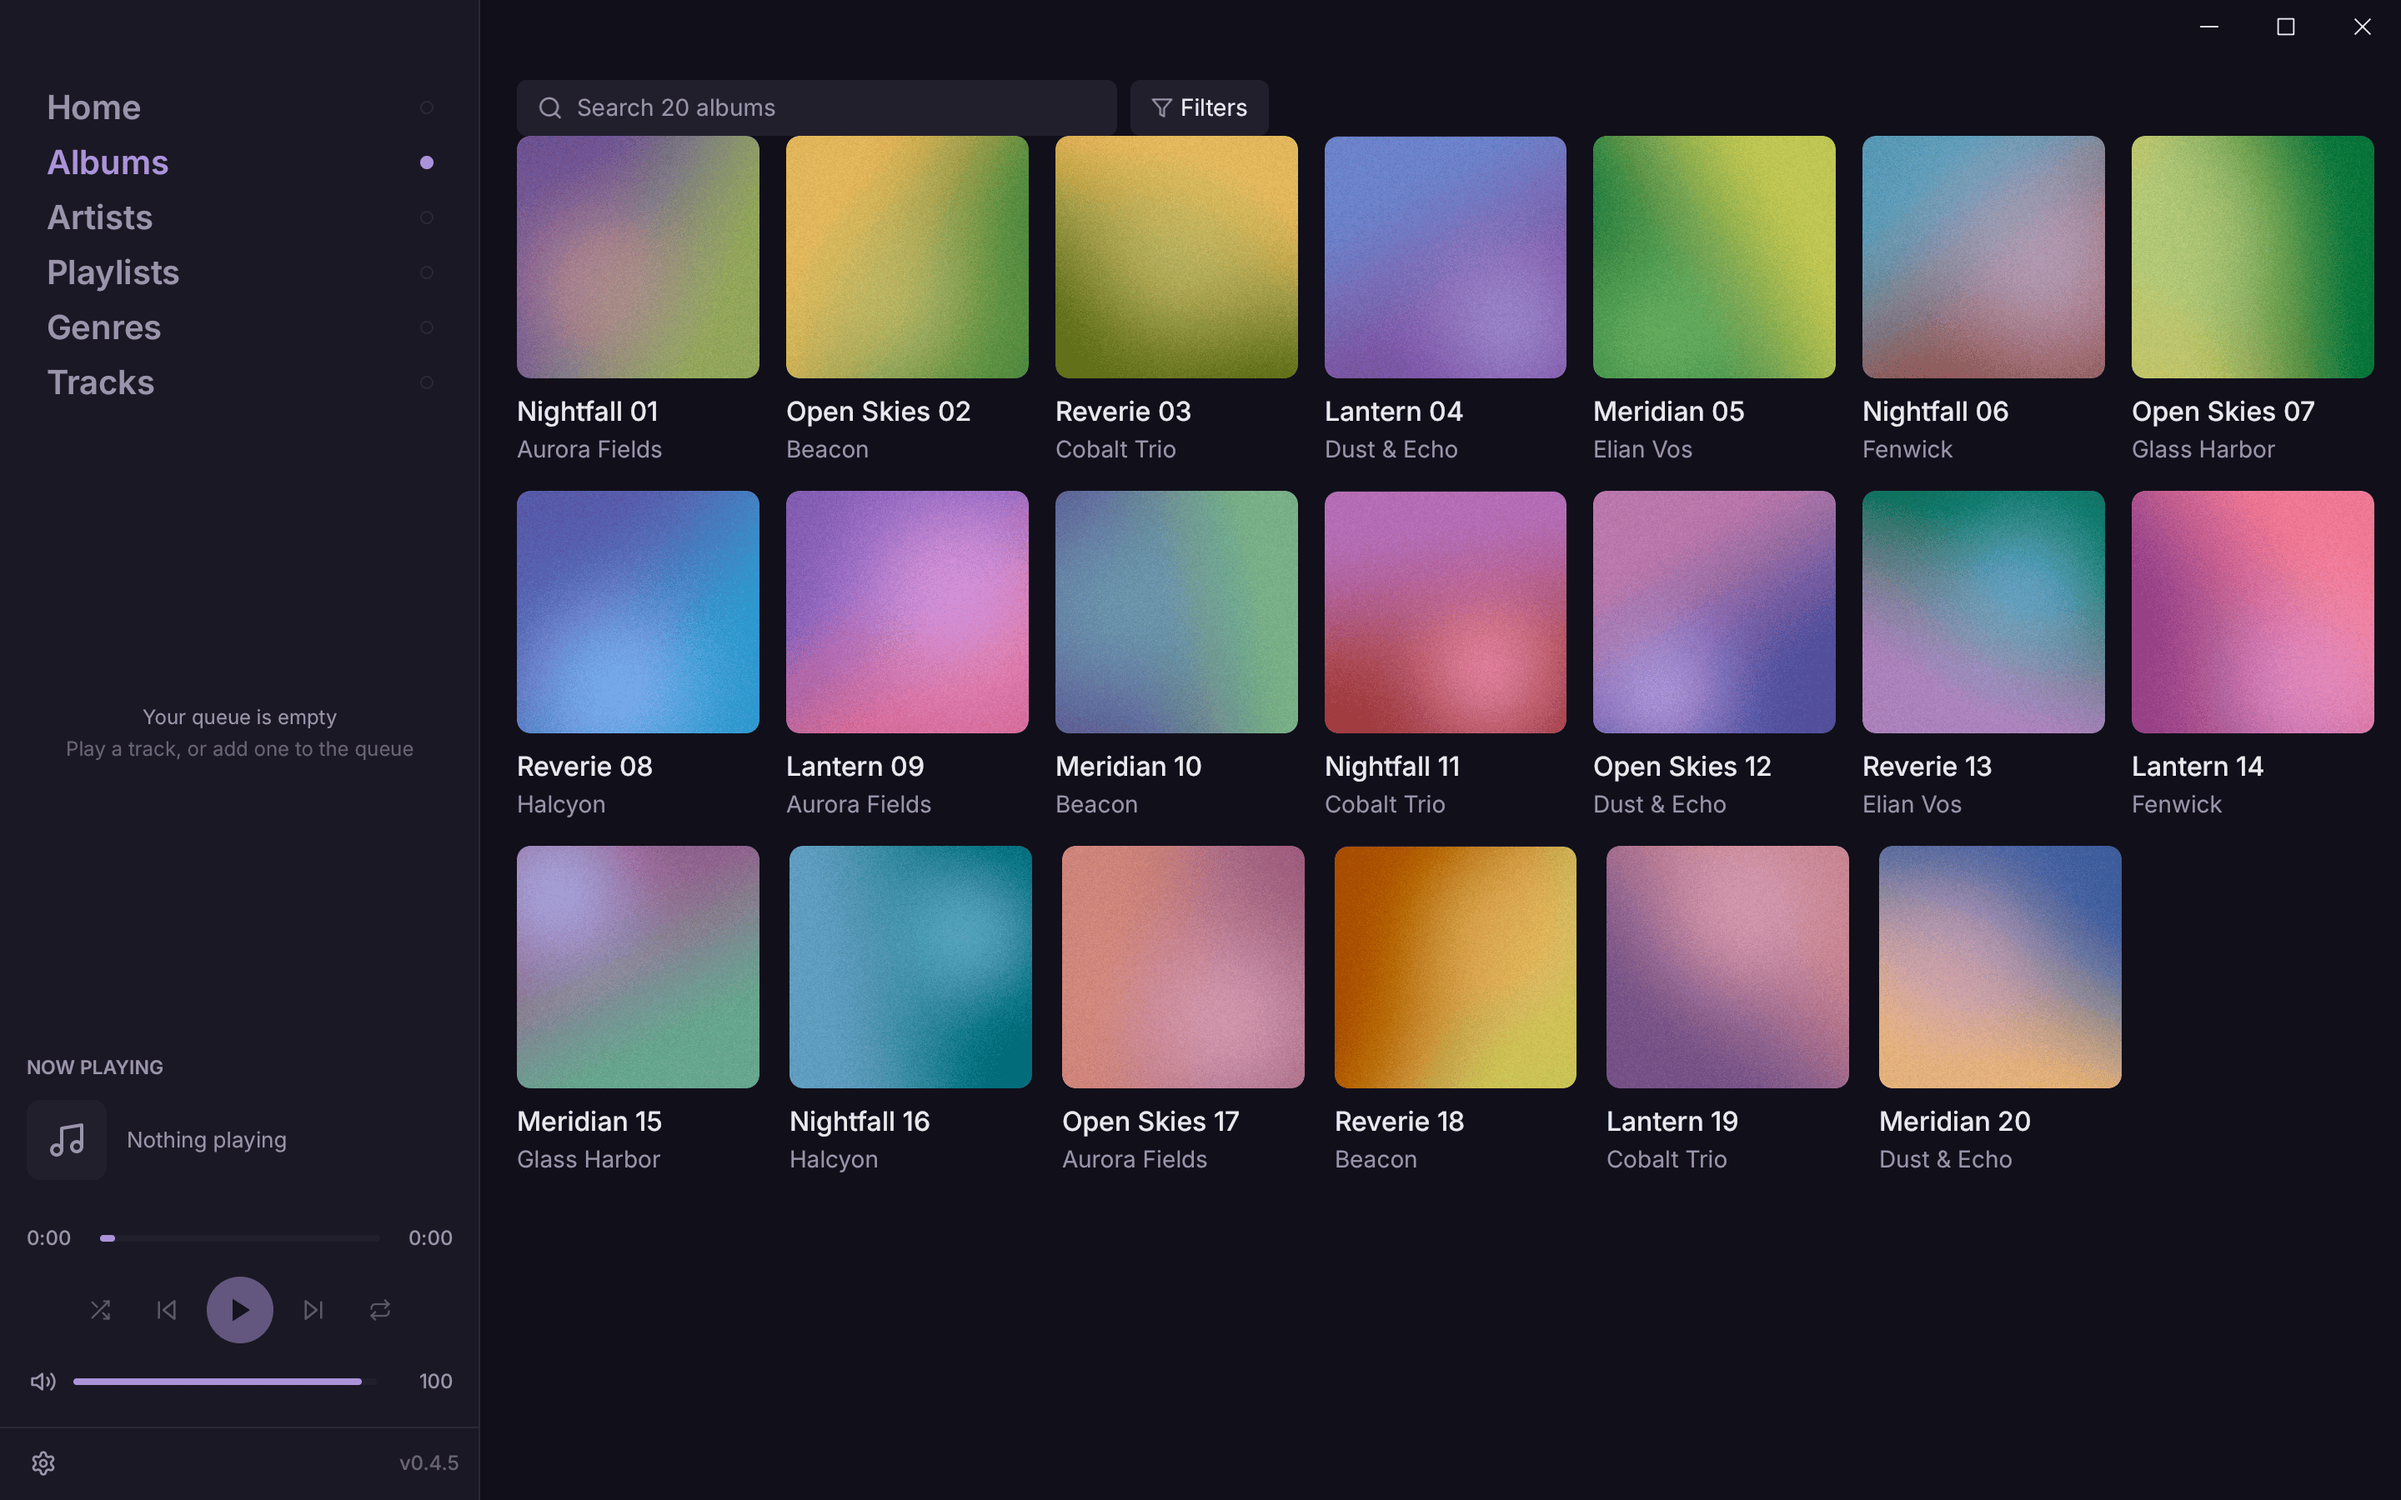
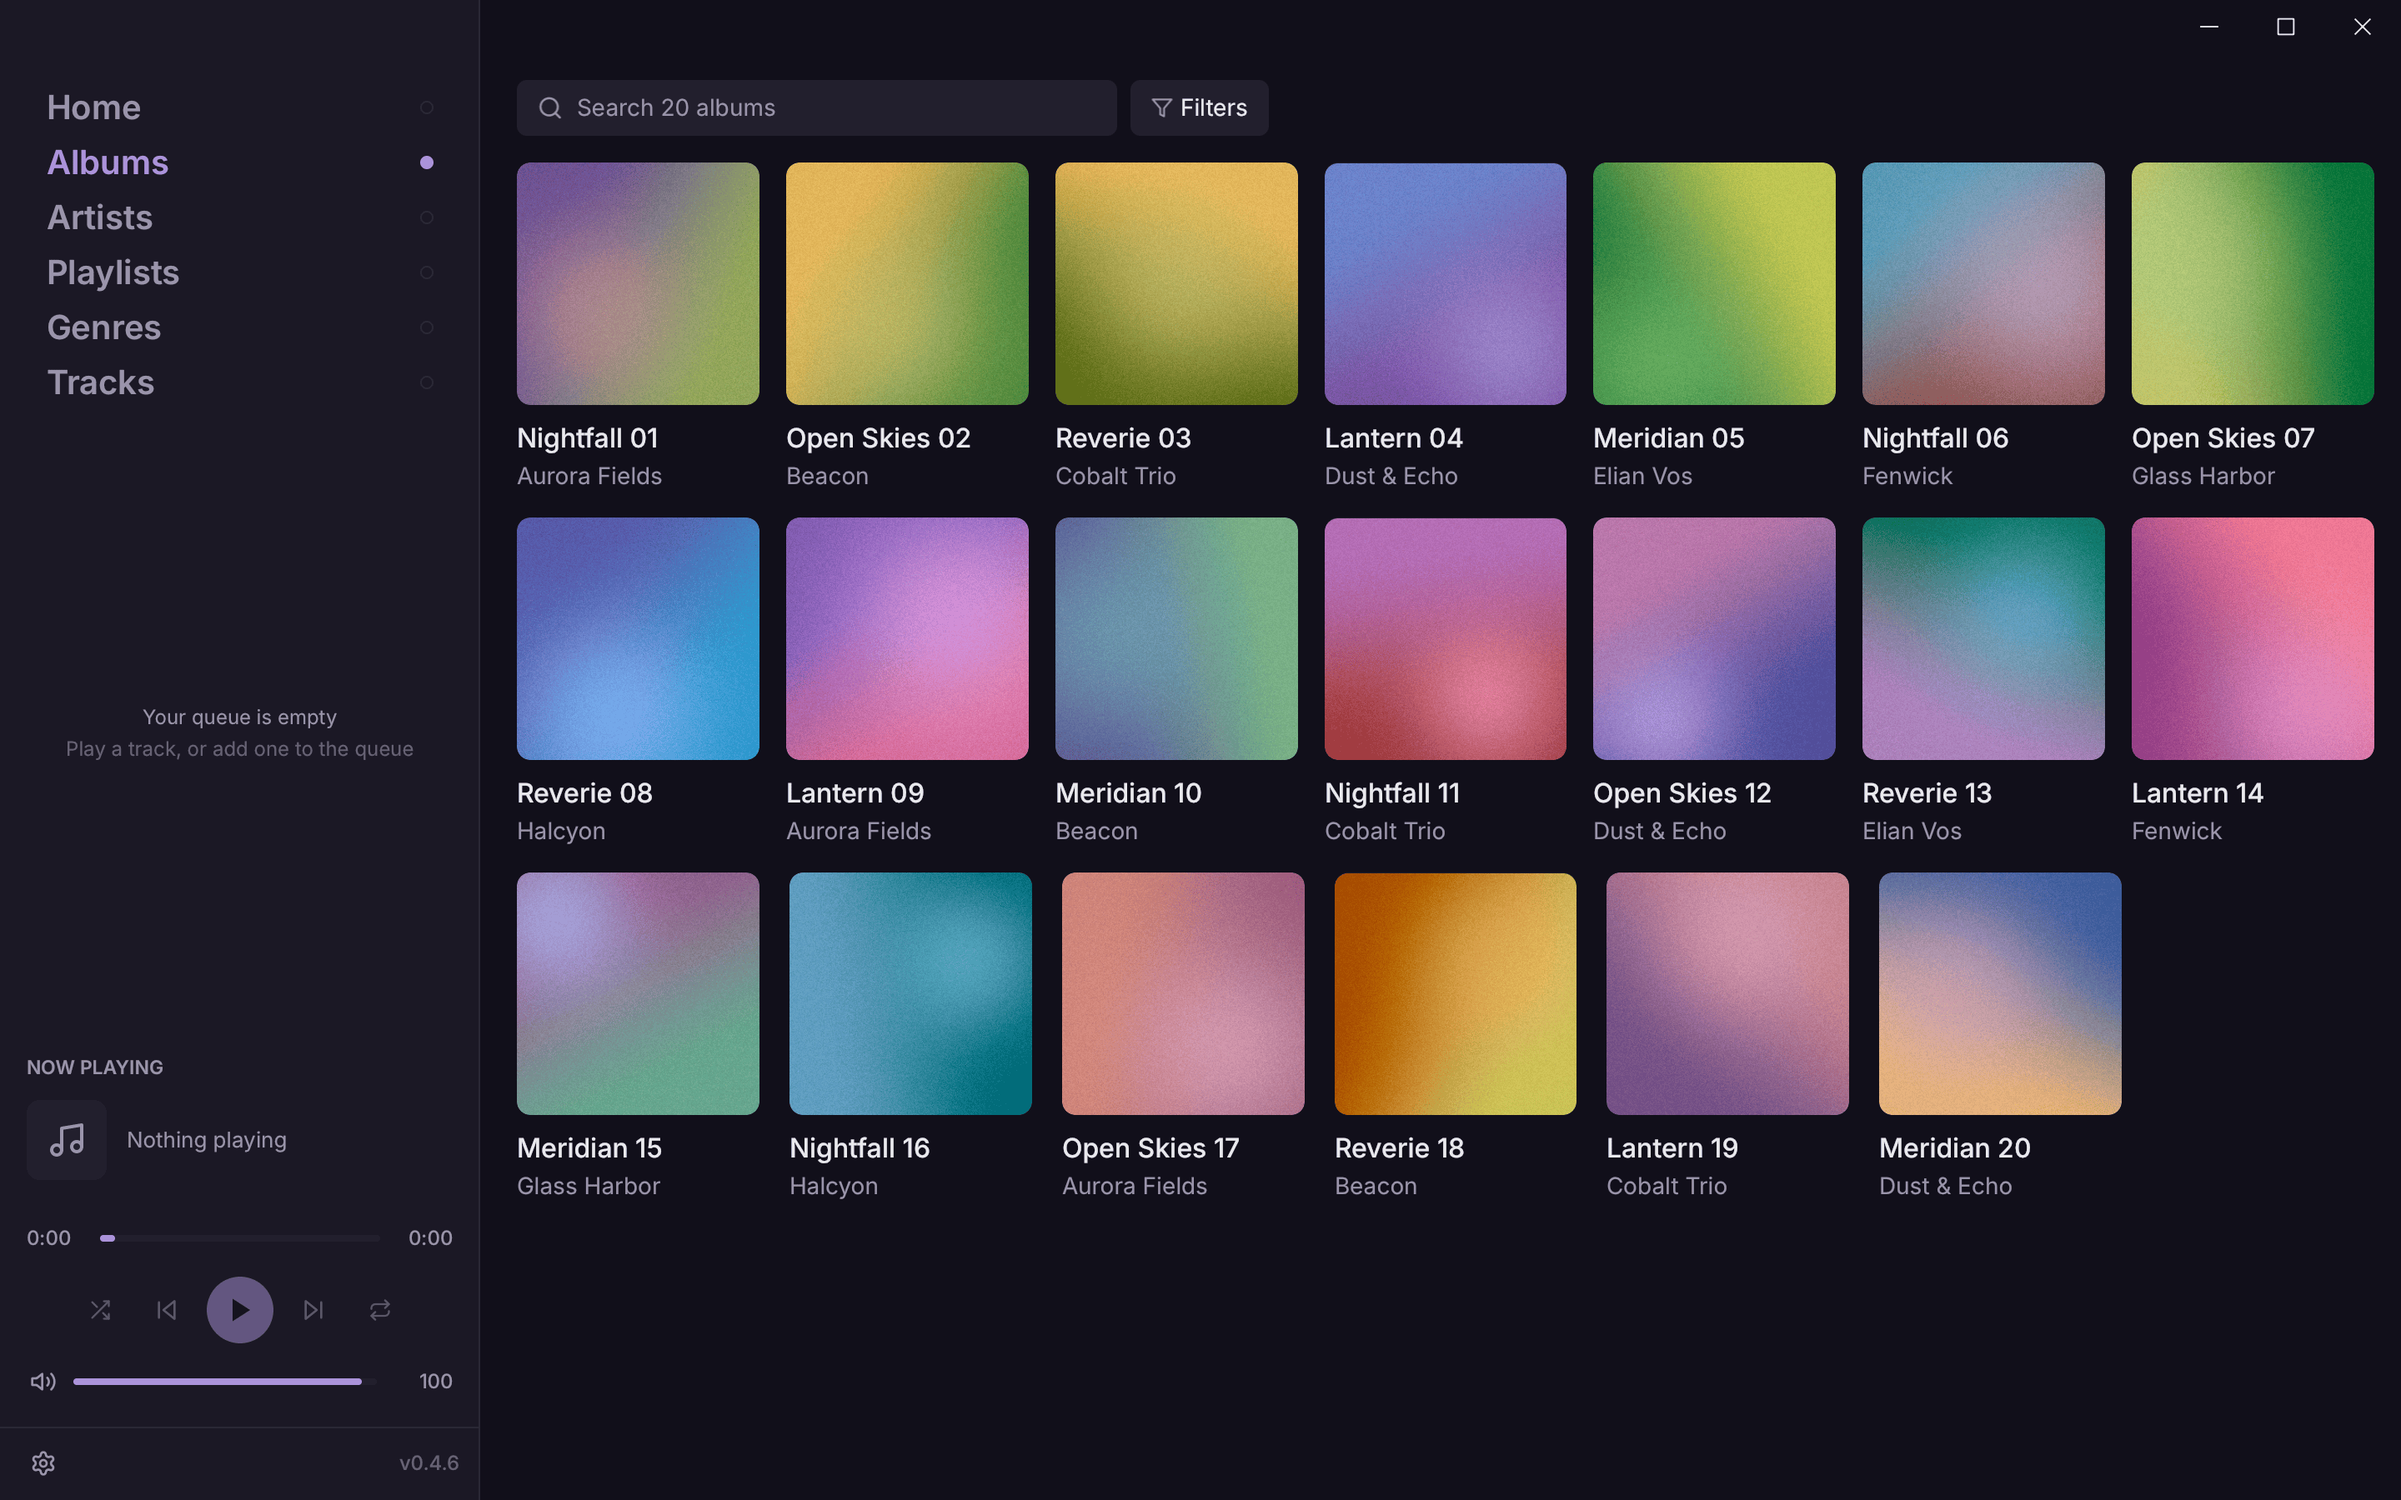
fix(ui): give the browse pages a gap between the search bar and the content
The shared top bar had top padding and no bottom padding, on the stated
assumption that "the grid's own top padding provides the gap below". The grid
has no top padding: its rows carry only a bottom gutter, and the Tracks list
starts flush. So on all five browse pages (Albums, Artists, Genres, Tracks,
Playlists) the first row sat directly against the search field.

Adds the matching bottom padding, which is also what the README screenshot
shows, so that is re-rendered.

The README itself is cut to roughly half: the four reasons, one paragraph of
features, install, self-hosting, build, and the doc index.

Changed region(s): [[0.2188, 0.0933, 1.0, 0.8089], [0.2188, 0.6222, 0.2812, 0.6844], [0.5938, 0.1556, 0.625, 0.1867]]

diff --git a/app/src/views/library.rs b/app/src/views/library.rs
@@ -101,11 +101,13 @@ const TRACK_ROW_EST_H: f32 = 44.0;
 pub(crate) fn page_search_bar(page: &str, search: El, trailing: Option<El>) -> El {
     let mut bar = row()
         .key(format!("{page}-search-bar"))
-        // Give the top bar the old app's `p-4`-style top breathing room instead of
-        // sitting cramped against the top of the pane; the grid's own top padding
-        // provides the gap below, so no bottom padding here.
+        // The old app's `p-4`-style breathing room on all four sides. The bottom
+        // padding matters as much as the top: what follows is a grid whose rows
+        // carry only a BOTTOM gutter, or a list whose rows start flush, so
+        // without it the first row sits against the search field.
         .px(space::PANE)
         .pt(space::PANE)
+        .pb(space::PANE)
         .gap(space::SM)
         .center_y()
         .child(search.grow(1.0).max_w(SEARCH_MAX_W));

diff --git a/README.md b/README.md
@@ -6,63 +6,27 @@ A desktop music player for people who still keep their own files.
 
 ![The Albums view](docs/screenshots/albums-dark.png)
 
-## Why Soul Player
+## Why
 
-**Your library stays yours.** No account, no sign-in, no cloud. Your files never
-leave your machine, and nothing about what you listen to is collected or sent
-anywhere. The only thing the app talks to on its own is the update check, and you
-can switch that off.
+- **Your library stays yours.** No account, no cloud, no tracking. The only thing
+  the app contacts on its own is the update check, and you can switch that off.
+- **It plays the file, not an approximation.** Gapless, no hidden resampling, and
+  exclusive access to the sound card where the platform allows it.
+- **Native, not a browser in a window.** The interface is drawn on the GPU by
+  Rust, over an audio engine written from scratch.
+- **Free, and staying that way.** Apache 2.0. No subscription, no paid tier.
 
-**It plays the file, not an approximation of it.** Gapless playback, no hidden
-resampling, and exclusive access to your sound card where the platform allows it,
-so the bits that reach your DAC are the bits in the file. The audio engine is
-written from scratch rather than wrapped around someone else's.
+Watched folders, playlists, search, cover art, an equaliser and DSP chain,
+ReplayGain, light and dark themes, six languages, media keys. WAV, FLAC, MP3,
+M4A (ALAC), OGG, Opus, AIFF, WavPack, CAF, MKA, WebM, and DSD.
 
-**It feels native, because it is.** The whole interface is drawn on the GPU by
-Rust code. There is no browser engine hiding inside it, so it starts fast, stays
-small, and does not eat your battery to show a list of albums.
-
-**Free, and staying that way.** Apache 2.0, no subscription, no paid tier, no
-feature held back for a "pro" version.
-
-## What it does
-
-**Your library.** Point it at folders and it watches them. Browse by album, artist,
-genre, or track, make playlists, search everything, and see your covers. Multiple
-folders, remembered between launches.
-
-**Playback.** Gapless, a proper queue, ReplayGain volume levelling, and loudness
-and dynamic-range readings for the people who care about them.
-
-**Sound shaping.** A built-in equaliser and a reorderable DSP chain, saved as
-profiles you can switch between. Leave it all off and the signal path stays
-untouched.
-
-**Formats.** WAV, FLAC, MP3, MP2, MP1, M4A (ALAC), OGG, Opus, AIFF, WavPack, CAF,
-MKA, WebM, and DSD (DSF and DFF). AAC is left out of the shipped build on purpose,
-because decoding it needs a patent licence.
-
-**Your own server.** `soul-server` serves your library to the player over the
-network, sending the original files untouched. Your music on your machine at home,
-reachable from your laptop, with nobody else's service in the middle. See
-[Self-hosting](#self-hosting).
-
-**The details.** Light and dark themes, six languages (English, German, Spanish,
-Czech, Japanese, Chinese), media keys and your system's now-playing panel, and an
-interface you can drive entirely from the keyboard.
-
-Windows, macOS, and Linux. Phones are out of scope: this is a desktop player.
+Windows, macOS, and Linux. Phones are out of scope.
 
 ## Install
 
-Grab the file for your system from the
-[releases page](https://github.com/soulaudio/soul-player-ng/releases/latest).
-
-- **Windows**: run the `-setup.exe` installer.
-- **macOS**: open the `.dmg` and drag it to Applications. One download works on
-  both Apple silicon and Intel Macs.
-- **Linux**: `.deb`, `.rpm`, `.AppImage`, or a Flatpak bundle, for x86_64 and
-  aarch64.
+From the [releases page](https://github.com/soulaudio/soul-player-ng/releases/latest):
+a `-setup.exe` for Windows, a universal `.dmg` for macOS, and `.deb`, `.rpm`,
+`.AppImage` or Flatpak for Linux (x86_64 and aarch64, glibc 2.35+).
 
 ```sh
 sudo apt install ./soul-player_*_amd64.deb              # Debian / Ubuntu
@@ -71,108 +35,53 @@ chmod +x soul-player_*.AppImage && ./soul-player_*.AppImage
 flatpak install --bundle ./Soul-Player_*.flatpak        # any distro with Flatpak
 ```
 
-Linux needs glibc 2.35 or newer. Which formats update themselves, the distros we
-test on, and the Flatpak sound-card permission are in
+Details, including which formats update themselves, are in
 [docs/INSTALL.md](docs/INSTALL.md).
 
 ## Self-hosting
 
-`soul-server` is a small server you run yourself. It indexes your music folders and
-streams the original file bytes to the player, so a track played from across the
-house sounds exactly like one played from the local disk. Logins go through the
-standard OAuth flow in your browser, and accounts are ones you create.
+`soul-server` serves your library to the player over the network, sending the
+original file bytes, so a remote track is as bit-perfect as a local one.
+[docs/SERVER.md](docs/SERVER.md) has the setup.
 
-```sh
-cargo build --release -p soul-server
-./target/release/soul-server --config soul-server.toml user add alice
-./target/release/soul-server --config soul-server.toml serve
-```
+## Build
 
-Setting it up properly, including running it as a service and putting it behind
-HTTPS, is in [docs/SERVER.md](docs/SERVER.md).
-
-## Contributing
-
-Bug reports, fixes, and ideas are welcome. [CONTRIBUTING.md](CONTRIBUTING.md) has
-the short version of how we work, and [CODE_OF_CONDUCT.md](CODE_OF_CONDUCT.md) the
-short version of how we treat each other. Security issues go to
-[SECURITY.md](SECURITY.md), not to a public issue.
-
-## Under the hood
-
-The rest of this is for people who want to read or build the code.
-
-Soul Player is all Rust. The interface is [Rune], a GPU-rendered UI framework, with
-no webview and no IPC between the UI and playback. Underneath it,
-[`soul-audio-core`][core] is a from-scratch `no_std`, no-alloc,
-`forbid(unsafe_code)` decode, resample, and playback library, built so the same
-code could one day run on firmware rather than only on a desktop.
-
-The rule the codebase keeps is that the UI is only visualization: every decision
-about what to scan, what to play, and which cover to show lives below it, in code
-that can be tested without a window.
-
-| Path | Role |
-|---|---|
-| `crates/soul-player-backend` | Headless backend: Command/Event DTOs plus the `AudioPlayer` actor over the engine. Sink-generic, device-free. |
-| `crates/soul-player-host` | The `PlayerHandle` waist the UI binds to: picks the audio sink, owns the live `Library`, fans backend events out. |
-| `crates/soul-server` | The self-hostable remote-source server: indexes a library, authenticates, streams. |
-| `app` | The native [Rune] UI head over `soul-player-host`. Its own workspace, on a pinned nightly. |
-
-The engine, resampler, codecs, and the cpal sink come from
-[`soul-audio-core`][core] as git dependencies; only the app-specific backend, host,
-server, and UI live here.
-
-### Build
-
-The UI head is its own workspace on a nightly toolchain (pinned in
-`app/rust-toolchain.toml`); everything else is stable.
+All Rust. The UI head (`app/`) is its own workspace on a pinned nightly;
+everything else is stable.
 
 ```sh
 cargo test                                 # backend + server
 cd app && cargo build --release            # the player
 ```
 
-On Linux the build needs a handful of system libraries (ALSA, D-Bus, OpenSSL,
-xkbcommon, Wayland, xcb, a Vulkan driver). The list, the Nix shells, and how to run
-the headless and desktop-session test suites are in
-[docs/DEVELOP.md](docs/DEVELOP.md).
-
-### Docs
+Linux needs a few system libraries, listed with the Nix shells and the test
+suites in [docs/DEVELOP.md](docs/DEVELOP.md).
 
 | | |
 |---|---|
-| [docs/INSTALL.md](docs/INSTALL.md) | Package formats, glibc floor, self-update behavior |
-| [docs/DEVELOP.md](docs/DEVELOP.md) | Toolchains, system deps, Nix, test suites, screenshots |
-| [docs/SERVER.md](docs/SERVER.md) | Running Soul Server, and its wire protocol |
 | [docs/ARCHITECTURE.md](docs/ARCHITECTURE.md) | How the layers fit together |
-| [app/PACKAGING.md](app/PACKAGING.md) | Installers, code signing, auto-update, releases |
-| [docs/adr/](docs/adr/) | Architecture decision records |
+| [docs/DEVELOP.md](docs/DEVELOP.md) | Toolchains, system deps, Nix, tests |
+| [docs/SERVER.md](docs/SERVER.md) | Running Soul Server, and its wire protocol |
+| [docs/INSTALL.md](docs/INSTALL.md) | Package formats, glibc floor, self-update |
+| [app/PACKAGING.md](app/PACKAGING.md) | Installers, signing, auto-update, releases |
+| [CONTRIBUTING.md](CONTRIBUTING.md) | How to propose a change |
+| [SECURITY.md](SECURITY.md) | Reporting a vulnerability |
 
 ## License
 
-Licensed under the **[Apache License 2.0](LICENSE)**: fully open source, free to
-use, modify, and redistribute, including in commercial and closed-source products.
-Copyright © 2026 datadir s. r. o. (Sebastián Stupák). See [LICENSE](LICENSE) and
-[NOTICE](NOTICE).
+[Apache 2.0](LICENSE): free to use, modify, and redistribute, including in
+commercial and closed-source products. Copyright © 2026 datadir s. r. o.
+(Sebastián Stupák). See [LICENSE](LICENSE) and [NOTICE](NOTICE).
 
-### Why open source
-
-We ship this in the open because we can get things wrong, and we'd rather you could
-read it, fix it, and build on it than take our word for it. The whole point is to
-let the community build on this effort instead of reinventing it. Fork it, learn
+We ship this in the open because we can get things wrong, and we'd rather you
+could read it, fix it, and build on it than take our word for it. Fork it, learn
 from it, make something better.
 
-### Credit, a request rather than a requirement
-
-If you build something on Soul Audio, we'd genuinely love a visible mention. Drop
-this anywhere users can see it (an About / Credits screen, your docs, a footer):
+If you build something on Soul Audio, we'd love a visible mention somewhere users
+can see it:
 
 > Powered by **[Soul Audio](https://github.com/soulaudio)**
 
-It's a courtesy we appreciate, not a license condition. The name "Soul Audio" and
-the logo are trademarks of datadir s. r. o. Please use them to credit us, not in a
-way that implies we endorse your product.
-
-[Rune]: https://github.com/anomalyco/rune
-[core]: https://github.com/soulaudio/soul-audio-core
+A courtesy we appreciate, not a license condition. "Soul Audio" and the logo are
+trademarks of datadir s. r. o. Please use them to credit us, not in a way that
+implies we endorse your product.
